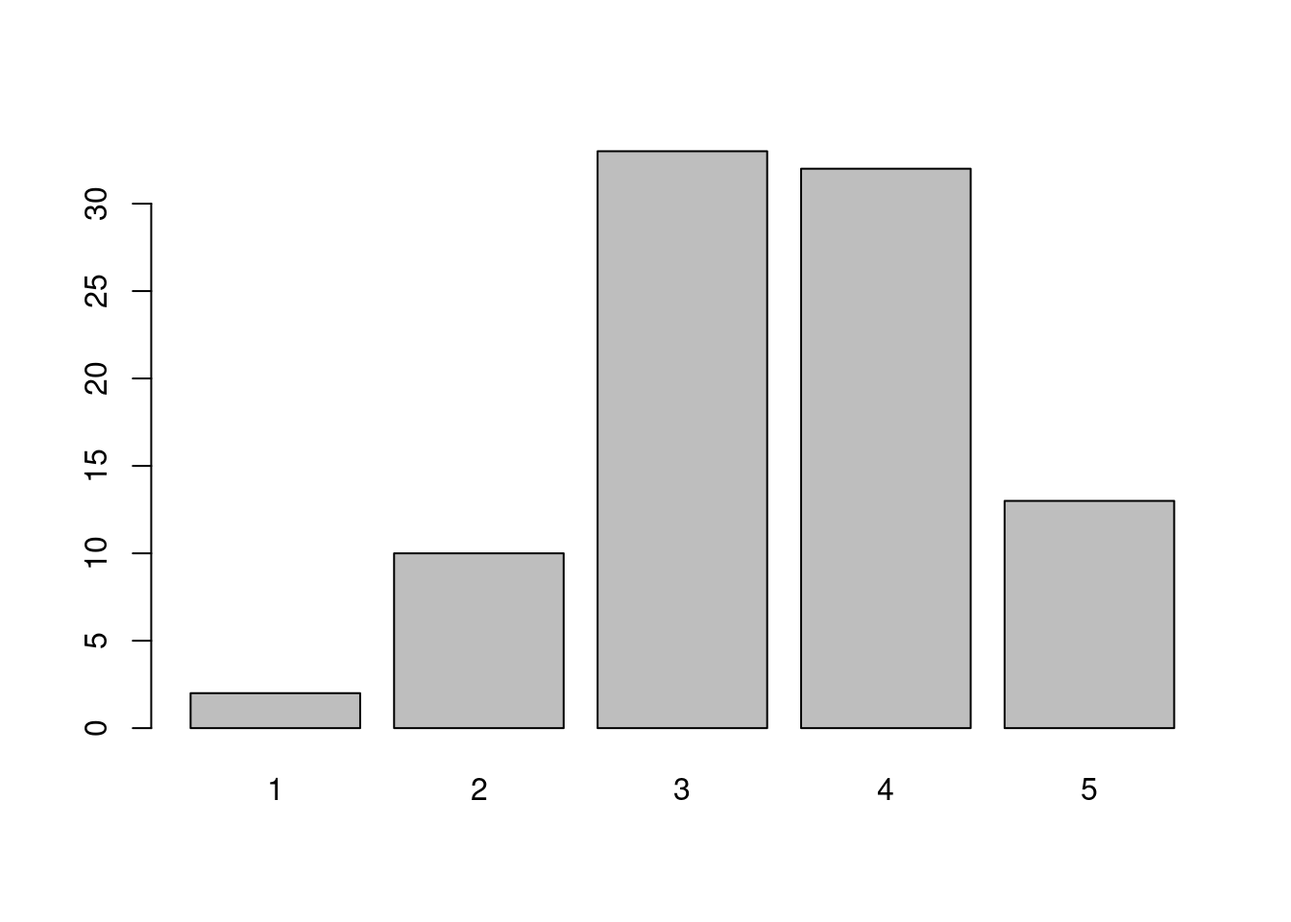
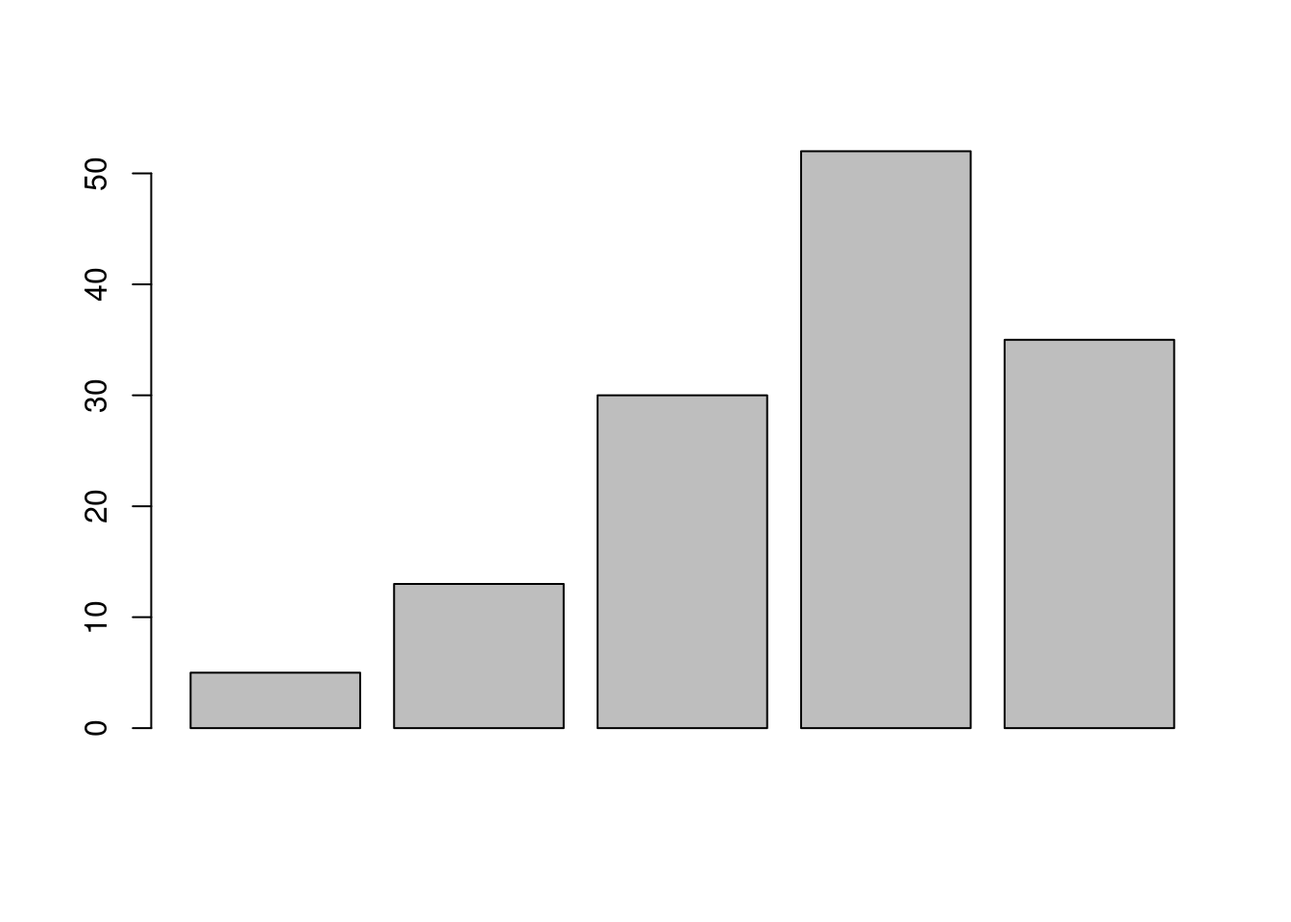
add codigo 201 tablas colombia

diff --git a/codigo103.html b/codigo103.html
@@ -667,10 +667,11 @@ pie(t1,
 <h1><strong>Variable cualitativa-ordinal</strong></h1>
 <div id="gráfico-de-barras" class="section level2">
 <h2><strong>2.Gráfico de barras</strong></h2>
-<pre class="r"><code>ev=table(rbinom(90,5,0.70))
+<pre class="r"><code>ev=c(5,13,30,52,35)
 barplot(ev)</code></pre>
 <p><img src="codigo103_files/figure-html/unnamed-chunk-3-1.png" width="672" /></p>
-<pre class="r"><code>ev=table(rbinom(90,5,0.70))
+<pre class="r"><code>ev=c(5,13,30,52,35)
+ev=as.table(ev)
 names(ev)=c(&quot;MR&quot;,&quot;R&quot;,&quot;B&quot;,&quot;MB&quot;,&quot;E&quot;)
 barplot(ev, col=c(&quot;red&quot;,&quot;yellow&quot;,&quot;orange&quot;,&quot;green&quot;,&quot;blue&quot;), 
         main = &quot;Evaluación proceso de inducción&quot;,
@@ -692,7 +693,7 @@ barplot(counts, main=&quot;Número de cambios adelante por Tipo de motor&quot;,
 <p><img src="codigo103_files/figure-html/unnamed-chunk-6-1.png" width="672" /></p>
 </div>
 <div id="diagrama-de-mosaico" class="section level2">
-<h2>** 4. Diagrama de mosaico **</h2>
+<h2><strong>4. Diagrama de mosaico </strong></h2>
 <pre class="r"><code>mosaicplot(~gear + vs, 
            data = mtcars, 
            color =  c(&quot;dodgerblue3&quot;,&quot;orange&quot;), 
@@ -941,8 +942,8 @@ fig</code></pre>
 <pre class="r"><code>library(highcharter)</code></pre>
 <pre class="r"><code>hchart(casas, &quot;scatter&quot;, hcaes(x = precio, y = areaconst, group = mes)) %&gt;%
   hc_title(text = &quot;Precio por área construida&quot;) </code></pre>
-<div id="htmlwidget-dbffcea08ab3f3df8702" style="width:100%;height:500px;" class="highchart html-widget"></div>
-<script type="application/json" data-for="htmlwidget-dbffcea08ab3f3df8702">{"x":{"hc_opts":{"chart":{"reflow":true},"title":{"text":"Precio por área construida"},"yAxis":{"title":{"text":"areaconst"},"type":"linear"},"credits":{"enabled":false},"exporting":{"enabled":false},"boost":{"enabled":false},"plotOptions":{"series":{"label":{"enabled":false},"turboThreshold":0,"showInLegend":true},"treemap":{"layoutAlgorithm":"squarified"},"scatter":{"marker":{"symbol":"circle"}}},"series":[{"name":"1","data":[{"mes":"1","precio":74900,"areaconst":1514,"numcuartos":4,"antigüedad":16,"sur":0,"norte":0,"x":74900,"y":1514},{"mes":"1","precio":76400,"areaconst":1679,"numcuartos":3,"antigüedad":15,"sur":0,"norte":0,"x":76400,"y":1679},{"mes":"1","precio":79900,"areaconst":1283,"numcuartos":2,"antigüedad":11,"sur":0,"norte":1,"x":79900,"y":1283},{"mes":"1","precio":80900,"areaconst":2072,"numcuartos":3,"antigüedad":8,"sur":0,"norte":0,"x":80900,"y":2072},{"mes":"1","precio":81500,"areaconst":1510,"numcuartos":2,"antigüedad":5,"sur":0,"norte":0,"x":81500,"y":1510},{"mes":"1","precio":81700,"areaconst":1692,"numcuartos":3,"antigüedad":5,"sur":0,"norte":0,"x":81700,"y":1692},{"mes":"1","precio":81800,"areaconst":1837,"numcuartos":3,"antigüedad":9,"sur":0,"norte":0,"x":81800,"y":1837},{"mes":"1","precio":83100,"areaconst":1697,"numcuartos":3,"antigüedad":4,"sur":0,"norte":0,"x":83100,"y":1697},{"mes":"1","precio":85600,"areaconst":2025,"numcuartos":3,"antigüedad":11,"sur":0,"norte":0,"x":85600,"y":2025},{"mes":"1","precio":88300,"areaconst":1959,"numcuartos":3,"antigüedad":6,"sur":1,"norte":0,"x":88300,"y":1959},{"mes":"1","precio":90900,"areaconst":2111,"numcuartos":3,"antigüedad":9,"sur":0,"norte":0,"x":90900,"y":2111},{"mes":"1","precio":91600,"areaconst":1905,"numcuartos":3,"antigüedad":6,"sur":0,"norte":0,"x":91600,"y":1905},{"mes":"1","precio":94100,"areaconst":1690,"numcuartos":3,"antigüedad":7,"sur":0,"norte":1,"x":94100,"y":1690},{"mes":"1","precio":97500,"areaconst":1749,"numcuartos":3,"antigüedad":8,"sur":0,"norte":1,"x":97500,"y":1749},{"mes":"1","precio":104800,"areaconst":1836,"numcuartos":3,"antigüedad":7,"sur":0,"norte":1,"x":104800,"y":1836},{"mes":"1","precio":107000,"areaconst":2215,"numcuartos":3,"antigüedad":7,"sur":0,"norte":0,"x":107000,"y":2215},{"mes":"1","precio":111000,"areaconst":1952,"numcuartos":4,"antigüedad":8,"sur":0,"norte":1,"x":111000,"y":1952},{"mes":"1","precio":112900,"areaconst":2210,"numcuartos":3,"antigüedad":9,"sur":0,"norte":1,"x":112900,"y":2210},{"mes":"1","precio":113000,"areaconst":2008,"numcuartos":3,"antigüedad":5,"sur":0,"norte":1,"x":113000,"y":2008},{"mes":"1","precio":117200,"areaconst":2063,"numcuartos":3,"antigüedad":5,"sur":0,"norte":1,"x":117200,"y":2063},{"mes":"1","precio":117700,"areaconst":2091,"numcuartos":3,"antigüedad":6,"sur":1,"norte":1,"x":117700,"y":2091},{"mes":"1","precio":118000,"areaconst":2019,"numcuartos":4,"antigüedad":8,"sur":0,"norte":1,"x":118000,"y":2019}],"type":"scatter"},{"name":"2","data":[{"mes":"2","precio":58900,"areaconst":1111,"numcuartos":6,"antigüedad":22,"sur":0,"norte":0,"x":58900,"y":1111},{"mes":"2","precio":68900,"areaconst":1689,"numcuartos":4,"antigüedad":15,"sur":0,"norte":0,"x":68900,"y":1689},{"mes":"2","precio":71600,"areaconst":1683,"numcuartos":3,"antigüedad":6,"sur":0,"norte":0,"x":71600,"y":1683},{"mes":"2","precio":74600,"areaconst":1941,"numcuartos":3,"antigüedad":7,"sur":1,"norte":0,"x":74600,"y":1941},{"mes":"2","precio":76200,"areaconst":1810,"numcuartos":3,"antigüedad":5,"sur":1,"norte":0,"x":76200,"y":1810},{"mes":"2","precio":76800,"areaconst":1713,"numcuartos":3,"antigüedad":1,"sur":0,"norte":0,"x":76800,"y":1713},{"mes":"2","precio":78400,"areaconst":1799,"numcuartos":3,"antigüedad":4,"sur":0,"norte":0,"x":78400,"y":1799},{"mes":"2","precio":79900,"areaconst":1501,"numcuartos":3,"antigüedad":6,"sur":0,"norte":0,"x":79900,"y":1501},{"mes":"2","precio":81400,"areaconst":1975,"numcuartos":3,"antigüedad":18,"sur":1,"norte":0,"x":81400,"y":1975},{"mes":"2","precio":82800,"areaconst":1783,"numcuartos":4,"antigüedad":6,"sur":0,"norte":0,"x":82800,"y":1783},{"mes":"2","precio":84600,"areaconst":1793,"numcuartos":3,"antigüedad":7,"sur":0,"norte":1,"x":84600,"y":1793},{"mes":"2","precio":85200,"areaconst":1598,"numcuartos":3,"antigüedad":4,"sur":0,"norte":1,"x":85200,"y":1598},{"mes":"2","precio":86300,"areaconst":2050,"numcuartos":3,"antigüedad":2,"sur":0,"norte":0,"x":86300,"y":2050},{"mes":"2","precio":93300,"areaconst":1460,"numcuartos":2,"antigüedad":5,"sur":0,"norte":1,"x":93300,"y":1460},{"mes":"2","precio":95900,"areaconst":2384,"numcuartos":4,"antigüedad":6,"sur":0,"norte":0,"x":95900,"y":2384},{"mes":"2","precio":97500,"areaconst":2219,"numcuartos":4,"antigüedad":9,"sur":0,"norte":0,"x":97500,"y":2219},{"mes":"2","precio":99100,"areaconst":1814,"numcuartos":3,"antigüedad":6,"sur":0,"norte":1,"x":99100,"y":1814},{"mes":"2","precio":101700,"areaconst":2336,"numcuartos":3,"antigüedad":8,"sur":0,"norte":0,"x":101700,"y":2336},{"mes":"2","precio":105000,"areaconst":2398,"numcuartos":4,"antigüedad":4,"sur":0,"norte":0,"x":105000,"y":2398},{"mes":"2","precio":114100,"areaconst":2136,"numcuartos":4,"antigüedad":4,"sur":1,"norte":1,"x":114100,"y":2136},{"mes":"2","precio":117300,"areaconst":2173,"numcuartos":3,"antigüedad":4,"sur":0,"norte":1,"x":117300,"y":2173},{"mes":"2","precio":131200,"areaconst":2523,"numcuartos":4,"antigüedad":5,"sur":0,"norte":1,"x":131200,"y":2523}],"type":"scatter"},{"name":"3","data":[{"mes":"3","precio":70900,"areaconst":1529,"numcuartos":5,"antigüedad":20,"sur":0,"norte":0,"x":70900,"y":1529},{"mes":"3","precio":72300,"areaconst":1589,"numcuartos":6,"antigüedad":16,"sur":0,"norte":0,"x":72300,"y":1589},{"mes":"3","precio":76800,"areaconst":1710,"numcuartos":4,"antigüedad":14,"sur":0,"norte":0,"x":76800,"y":1710},{"mes":"3","precio":79900,"areaconst":1398,"numcuartos":2,"antigüedad":12,"sur":0,"norte":1,"x":79900,"y":1398},{"mes":"3","precio":81800,"areaconst":2017,"numcuartos":7,"antigüedad":7,"sur":0,"norte":0,"x":81800,"y":2017},{"mes":"3","precio":83700,"areaconst":2123,"numcuartos":4,"antigüedad":4,"sur":0,"norte":0,"x":83700,"y":2123},{"mes":"3","precio":85200,"areaconst":1967,"numcuartos":3,"antigüedad":4,"sur":0,"norte":0,"x":85200,"y":1967},{"mes":"3","precio":86300,"areaconst":2100,"numcuartos":5,"antigüedad":5,"sur":1,"norte":0,"x":86300,"y":2100},{"mes":"3","precio":87100,"areaconst":2186,"numcuartos":6,"antigüedad":6,"sur":0,"norte":0,"x":87100,"y":2186},{"mes":"3","precio":87900,"areaconst":1588,"numcuartos":6,"antigüedad":6,"sur":0,"norte":1,"x":87900,"y":1588},{"mes":"3","precio":88500,"areaconst":2190,"numcuartos":4,"antigüedad":4,"sur":1,"norte":0,"x":88500,"y":2190},{"mes":"3","precio":90300,"areaconst":2021,"numcuartos":10,"antigüedad":10,"sur":0,"norte":0,"x":90300,"y":2021},{"mes":"3","precio":91700,"areaconst":2385,"numcuartos":1,"antigüedad":1,"sur":0,"norte":0,"x":91700,"y":2385},{"mes":"3","precio":92100,"areaconst":1644,"numcuartos":4,"antigüedad":4,"sur":0,"norte":1,"x":92100,"y":1644},{"mes":"3","precio":103300,"areaconst":2689,"numcuartos":5,"antigüedad":5,"sur":0,"norte":0,"x":103300,"y":2689},{"mes":"3","precio":111100,"areaconst":2068,"numcuartos":6,"antigüedad":6,"sur":0,"norte":1,"x":111100,"y":2068},{"mes":"3","precio":121000,"areaconst":2254,"numcuartos":4,"antigüedad":4,"sur":0,"norte":1,"x":121000,"y":2254},{"mes":"3","precio":129600,"areaconst":2289,"numcuartos":6,"antigüedad":6,"sur":0,"norte":1,"x":129600,"y":2289},{"mes":"3","precio":131900,"areaconst":2728,"numcuartos":8,"antigüedad":8,"sur":0,"norte":1,"x":131900,"y":2728}],"type":"scatter"}],"xAxis":{"type":"linear","title":{"text":"precio"},"categories":null}},"theme":{"chart":{"backgroundColor":"transparent"},"colors":["#7cb5ec","#434348","#90ed7d","#f7a35c","#8085e9","#f15c80","#e4d354","#2b908f","#f45b5b","#91e8e1"]},"conf_opts":{"global":{"Date":null,"VMLRadialGradientURL":"http =//code.highcharts.com/list(version)/gfx/vml-radial-gradient.png","canvasToolsURL":"http =//code.highcharts.com/list(version)/modules/canvas-tools.js","getTimezoneOffset":null,"timezoneOffset":0,"useUTC":true},"lang":{"contextButtonTitle":"Chart context menu","decimalPoint":".","downloadJPEG":"Download JPEG image","downloadPDF":"Download PDF document","downloadPNG":"Download PNG image","downloadSVG":"Download SVG vector image","drillUpText":"Back to {series.name}","invalidDate":null,"loading":"Loading...","months":["January","February","March","April","May","June","July","August","September","October","November","December"],"noData":"No data to display","numericSymbols":["k","M","G","T","P","E"],"printChart":"Print chart","resetZoom":"Reset zoom","resetZoomTitle":"Reset zoom level 1:1","shortMonths":["Jan","Feb","Mar","Apr","May","Jun","Jul","Aug","Sep","Oct","Nov","Dec"],"thousandsSep":" ","weekdays":["Sunday","Monday","Tuesday","Wednesday","Thursday","Friday","Saturday"]}},"type":"chart","fonts":[],"debug":false},"evals":[],"jsHooks":[]}</script>
+<div id="htmlwidget-9eef53ed8aa8c33a970f" style="width:100%;height:500px;" class="highchart html-widget"></div>
+<script type="application/json" data-for="htmlwidget-9eef53ed8aa8c33a970f">{"x":{"hc_opts":{"chart":{"reflow":true},"title":{"text":"Precio por área construida"},"yAxis":{"title":{"text":"areaconst"},"type":"linear"},"credits":{"enabled":false},"exporting":{"enabled":false},"boost":{"enabled":false},"plotOptions":{"series":{"label":{"enabled":false},"turboThreshold":0,"showInLegend":true},"treemap":{"layoutAlgorithm":"squarified"},"scatter":{"marker":{"symbol":"circle"}}},"series":[{"name":"1","data":[{"mes":"1","precio":74900,"areaconst":1514,"numcuartos":4,"antigüedad":16,"sur":0,"norte":0,"x":74900,"y":1514},{"mes":"1","precio":76400,"areaconst":1679,"numcuartos":3,"antigüedad":15,"sur":0,"norte":0,"x":76400,"y":1679},{"mes":"1","precio":79900,"areaconst":1283,"numcuartos":2,"antigüedad":11,"sur":0,"norte":1,"x":79900,"y":1283},{"mes":"1","precio":80900,"areaconst":2072,"numcuartos":3,"antigüedad":8,"sur":0,"norte":0,"x":80900,"y":2072},{"mes":"1","precio":81500,"areaconst":1510,"numcuartos":2,"antigüedad":5,"sur":0,"norte":0,"x":81500,"y":1510},{"mes":"1","precio":81700,"areaconst":1692,"numcuartos":3,"antigüedad":5,"sur":0,"norte":0,"x":81700,"y":1692},{"mes":"1","precio":81800,"areaconst":1837,"numcuartos":3,"antigüedad":9,"sur":0,"norte":0,"x":81800,"y":1837},{"mes":"1","precio":83100,"areaconst":1697,"numcuartos":3,"antigüedad":4,"sur":0,"norte":0,"x":83100,"y":1697},{"mes":"1","precio":85600,"areaconst":2025,"numcuartos":3,"antigüedad":11,"sur":0,"norte":0,"x":85600,"y":2025},{"mes":"1","precio":88300,"areaconst":1959,"numcuartos":3,"antigüedad":6,"sur":1,"norte":0,"x":88300,"y":1959},{"mes":"1","precio":90900,"areaconst":2111,"numcuartos":3,"antigüedad":9,"sur":0,"norte":0,"x":90900,"y":2111},{"mes":"1","precio":91600,"areaconst":1905,"numcuartos":3,"antigüedad":6,"sur":0,"norte":0,"x":91600,"y":1905},{"mes":"1","precio":94100,"areaconst":1690,"numcuartos":3,"antigüedad":7,"sur":0,"norte":1,"x":94100,"y":1690},{"mes":"1","precio":97500,"areaconst":1749,"numcuartos":3,"antigüedad":8,"sur":0,"norte":1,"x":97500,"y":1749},{"mes":"1","precio":104800,"areaconst":1836,"numcuartos":3,"antigüedad":7,"sur":0,"norte":1,"x":104800,"y":1836},{"mes":"1","precio":107000,"areaconst":2215,"numcuartos":3,"antigüedad":7,"sur":0,"norte":0,"x":107000,"y":2215},{"mes":"1","precio":111000,"areaconst":1952,"numcuartos":4,"antigüedad":8,"sur":0,"norte":1,"x":111000,"y":1952},{"mes":"1","precio":112900,"areaconst":2210,"numcuartos":3,"antigüedad":9,"sur":0,"norte":1,"x":112900,"y":2210},{"mes":"1","precio":113000,"areaconst":2008,"numcuartos":3,"antigüedad":5,"sur":0,"norte":1,"x":113000,"y":2008},{"mes":"1","precio":117200,"areaconst":2063,"numcuartos":3,"antigüedad":5,"sur":0,"norte":1,"x":117200,"y":2063},{"mes":"1","precio":117700,"areaconst":2091,"numcuartos":3,"antigüedad":6,"sur":1,"norte":1,"x":117700,"y":2091},{"mes":"1","precio":118000,"areaconst":2019,"numcuartos":4,"antigüedad":8,"sur":0,"norte":1,"x":118000,"y":2019}],"type":"scatter"},{"name":"2","data":[{"mes":"2","precio":58900,"areaconst":1111,"numcuartos":6,"antigüedad":22,"sur":0,"norte":0,"x":58900,"y":1111},{"mes":"2","precio":68900,"areaconst":1689,"numcuartos":4,"antigüedad":15,"sur":0,"norte":0,"x":68900,"y":1689},{"mes":"2","precio":71600,"areaconst":1683,"numcuartos":3,"antigüedad":6,"sur":0,"norte":0,"x":71600,"y":1683},{"mes":"2","precio":74600,"areaconst":1941,"numcuartos":3,"antigüedad":7,"sur":1,"norte":0,"x":74600,"y":1941},{"mes":"2","precio":76200,"areaconst":1810,"numcuartos":3,"antigüedad":5,"sur":1,"norte":0,"x":76200,"y":1810},{"mes":"2","precio":76800,"areaconst":1713,"numcuartos":3,"antigüedad":1,"sur":0,"norte":0,"x":76800,"y":1713},{"mes":"2","precio":78400,"areaconst":1799,"numcuartos":3,"antigüedad":4,"sur":0,"norte":0,"x":78400,"y":1799},{"mes":"2","precio":79900,"areaconst":1501,"numcuartos":3,"antigüedad":6,"sur":0,"norte":0,"x":79900,"y":1501},{"mes":"2","precio":81400,"areaconst":1975,"numcuartos":3,"antigüedad":18,"sur":1,"norte":0,"x":81400,"y":1975},{"mes":"2","precio":82800,"areaconst":1783,"numcuartos":4,"antigüedad":6,"sur":0,"norte":0,"x":82800,"y":1783},{"mes":"2","precio":84600,"areaconst":1793,"numcuartos":3,"antigüedad":7,"sur":0,"norte":1,"x":84600,"y":1793},{"mes":"2","precio":85200,"areaconst":1598,"numcuartos":3,"antigüedad":4,"sur":0,"norte":1,"x":85200,"y":1598},{"mes":"2","precio":86300,"areaconst":2050,"numcuartos":3,"antigüedad":2,"sur":0,"norte":0,"x":86300,"y":2050},{"mes":"2","precio":93300,"areaconst":1460,"numcuartos":2,"antigüedad":5,"sur":0,"norte":1,"x":93300,"y":1460},{"mes":"2","precio":95900,"areaconst":2384,"numcuartos":4,"antigüedad":6,"sur":0,"norte":0,"x":95900,"y":2384},{"mes":"2","precio":97500,"areaconst":2219,"numcuartos":4,"antigüedad":9,"sur":0,"norte":0,"x":97500,"y":2219},{"mes":"2","precio":99100,"areaconst":1814,"numcuartos":3,"antigüedad":6,"sur":0,"norte":1,"x":99100,"y":1814},{"mes":"2","precio":101700,"areaconst":2336,"numcuartos":3,"antigüedad":8,"sur":0,"norte":0,"x":101700,"y":2336},{"mes":"2","precio":105000,"areaconst":2398,"numcuartos":4,"antigüedad":4,"sur":0,"norte":0,"x":105000,"y":2398},{"mes":"2","precio":114100,"areaconst":2136,"numcuartos":4,"antigüedad":4,"sur":1,"norte":1,"x":114100,"y":2136},{"mes":"2","precio":117300,"areaconst":2173,"numcuartos":3,"antigüedad":4,"sur":0,"norte":1,"x":117300,"y":2173},{"mes":"2","precio":131200,"areaconst":2523,"numcuartos":4,"antigüedad":5,"sur":0,"norte":1,"x":131200,"y":2523}],"type":"scatter"},{"name":"3","data":[{"mes":"3","precio":70900,"areaconst":1529,"numcuartos":5,"antigüedad":20,"sur":0,"norte":0,"x":70900,"y":1529},{"mes":"3","precio":72300,"areaconst":1589,"numcuartos":6,"antigüedad":16,"sur":0,"norte":0,"x":72300,"y":1589},{"mes":"3","precio":76800,"areaconst":1710,"numcuartos":4,"antigüedad":14,"sur":0,"norte":0,"x":76800,"y":1710},{"mes":"3","precio":79900,"areaconst":1398,"numcuartos":2,"antigüedad":12,"sur":0,"norte":1,"x":79900,"y":1398},{"mes":"3","precio":81800,"areaconst":2017,"numcuartos":7,"antigüedad":7,"sur":0,"norte":0,"x":81800,"y":2017},{"mes":"3","precio":83700,"areaconst":2123,"numcuartos":4,"antigüedad":4,"sur":0,"norte":0,"x":83700,"y":2123},{"mes":"3","precio":85200,"areaconst":1967,"numcuartos":3,"antigüedad":4,"sur":0,"norte":0,"x":85200,"y":1967},{"mes":"3","precio":86300,"areaconst":2100,"numcuartos":5,"antigüedad":5,"sur":1,"norte":0,"x":86300,"y":2100},{"mes":"3","precio":87100,"areaconst":2186,"numcuartos":6,"antigüedad":6,"sur":0,"norte":0,"x":87100,"y":2186},{"mes":"3","precio":87900,"areaconst":1588,"numcuartos":6,"antigüedad":6,"sur":0,"norte":1,"x":87900,"y":1588},{"mes":"3","precio":88500,"areaconst":2190,"numcuartos":4,"antigüedad":4,"sur":1,"norte":0,"x":88500,"y":2190},{"mes":"3","precio":90300,"areaconst":2021,"numcuartos":10,"antigüedad":10,"sur":0,"norte":0,"x":90300,"y":2021},{"mes":"3","precio":91700,"areaconst":2385,"numcuartos":1,"antigüedad":1,"sur":0,"norte":0,"x":91700,"y":2385},{"mes":"3","precio":92100,"areaconst":1644,"numcuartos":4,"antigüedad":4,"sur":0,"norte":1,"x":92100,"y":1644},{"mes":"3","precio":103300,"areaconst":2689,"numcuartos":5,"antigüedad":5,"sur":0,"norte":0,"x":103300,"y":2689},{"mes":"3","precio":111100,"areaconst":2068,"numcuartos":6,"antigüedad":6,"sur":0,"norte":1,"x":111100,"y":2068},{"mes":"3","precio":121000,"areaconst":2254,"numcuartos":4,"antigüedad":4,"sur":0,"norte":1,"x":121000,"y":2254},{"mes":"3","precio":129600,"areaconst":2289,"numcuartos":6,"antigüedad":6,"sur":0,"norte":1,"x":129600,"y":2289},{"mes":"3","precio":131900,"areaconst":2728,"numcuartos":8,"antigüedad":8,"sur":0,"norte":1,"x":131900,"y":2728}],"type":"scatter"}],"xAxis":{"type":"linear","title":{"text":"precio"},"categories":null}},"theme":{"chart":{"backgroundColor":"transparent"},"colors":["#7cb5ec","#434348","#90ed7d","#f7a35c","#8085e9","#f15c80","#e4d354","#2b908f","#f45b5b","#91e8e1"]},"conf_opts":{"global":{"Date":null,"VMLRadialGradientURL":"http =//code.highcharts.com/list(version)/gfx/vml-radial-gradient.png","canvasToolsURL":"http =//code.highcharts.com/list(version)/modules/canvas-tools.js","getTimezoneOffset":null,"timezoneOffset":0,"useUTC":true},"lang":{"contextButtonTitle":"Chart context menu","decimalPoint":".","downloadJPEG":"Download JPEG image","downloadPDF":"Download PDF document","downloadPNG":"Download PNG image","downloadSVG":"Download SVG vector image","drillUpText":"Back to {series.name}","invalidDate":null,"loading":"Loading...","months":["January","February","March","April","May","June","July","August","September","October","November","December"],"noData":"No data to display","numericSymbols":["k","M","G","T","P","E"],"printChart":"Print chart","resetZoom":"Reset zoom","resetZoomTitle":"Reset zoom level 1:1","shortMonths":["Jan","Feb","Mar","Apr","May","Jun","Jul","Aug","Sep","Oct","Nov","Dec"],"thousandsSep":" ","weekdays":["Sunday","Monday","Tuesday","Wednesday","Thursday","Friday","Saturday"]}},"type":"chart","fonts":[],"debug":false},"evals":[],"jsHooks":[]}</script>
 </div>
 <div id="plotly" class="section level2">
 <h2><strong>plotly</strong></h2>

diff --git a/codigo101.html b/codigo101.html
@@ -560,46 +560,30 @@ data(cars)  # data set cars</code></pre>
 ##  Mean   :15.4   Mean   : 42.98  
 ##  3rd Qu.:19.0   3rd Qu.: 56.00  
 ##  Max.   :25.0   Max.   :120.00</code></pre>
-<pre><code>##  fecha_reporte_web  id_de_caso        fecha_de_notificaci_n departamento       departamento_nom  
-##  Min.   :NA        Length:4747775     Min.   :NA            Length:4747775     Length:4747775    
-##  1st Qu.:NA        Class :character   1st Qu.:NA            Class :character   Class :character  
-##  Median :NA        Mode  :character   Median :NA            Mode  :character   Mode  :character  
-##  Mean   :NA                           Mean   :NA                                                 
-##  3rd Qu.:NA                           3rd Qu.:NA                                                 
-##  Max.   :NA                           Max.   :NA                                                 
-##  NA&#39;s   :4747775                      NA&#39;s   :4747775                                            
-##  ciudad_municipio   ciudad_municipio_nom      edad       unidad_medida          sexo          
-##  Length:4747775     Length:4747775       Min.   :  1.0   Length:4747775     Length:4747775    
-##  Class :character   Class :character     1st Qu.: 27.0   Class :character   Class :character  
-##  Mode  :character   Mode  :character     Median : 37.0   Mode  :character   Mode  :character  
-##                                          Mean   : 39.6                                        
-##                                          3rd Qu.: 52.0                                        
-##                                          Max.   :114.0                                        
-##                                                                                               
-##  fuente_tipo_contagio  ubicacion            estado          pais_viajo_1_cod   pais_viajo_1_nom  
-##  Length:4747775       Length:4747775     Length:4747775     Length:4747775     Length:4747775    
-##  Class :character     Class :character   Class :character   Class :character   Class :character  
-##  Mode  :character     Mode  :character   Mode  :character   Mode  :character   Mode  :character  
-##                                                                                                  
-##                                                                                                  
-##                                                                                                  
-##                                                                                                  
-##   recuperado        fecha_inicio_sintomas fecha_diagnostico fecha_recuperado  tipo_recuperacion 
-##  Length:4747775     Min.   :NA            Min.   :NA        Min.   :NA        Length:4747775    
-##  Class :character   1st Qu.:NA            1st Qu.:NA        1st Qu.:NA        Class :character  
-##  Mode  :character   Median :NA            Median :NA        Median :NA        Mode  :character  
-##                     Mean   :NA            Mean   :NA        Mean   :NA                          
-##                     3rd Qu.:NA            3rd Qu.:NA        3rd Qu.:NA                          
-##                     Max.   :NA            Max.   :NA        Max.   :NA                          
-##                     NA&#39;s   :4747775       NA&#39;s   :4747775   NA&#39;s   :4747775                     
-##    per_etn_          nom_grupo_         fecha_muerte    
-##  Length:4747775     Length:4747775     Min.   :NA       
-##  Class :character   Class :character   1st Qu.:NA       
-##  Mode  :character   Mode  :character   Median :NA       
-##                                        Mean   :NA       
-##                                        3rd Qu.:NA       
-##                                        Max.   :NA       
-##                                        NA&#39;s   :4747775</code></pre>
+<pre><code>##  fecha_reporte_web  id_de_caso        fecha_de_notificaci_n departamento       departamento_nom   ciudad_municipio   ciudad_municipio_nom      edad      
+##  Min.   :NA        Length:4747775     Min.   :NA            Length:4747775     Length:4747775     Length:4747775     Length:4747775       Min.   :  1.0  
+##  1st Qu.:NA        Class :character   1st Qu.:NA            Class :character   Class :character   Class :character   Class :character     1st Qu.: 27.0  
+##  Median :NA        Mode  :character   Median :NA            Mode  :character   Mode  :character   Mode  :character   Mode  :character     Median : 37.0  
+##  Mean   :NA                           Mean   :NA                                                                                          Mean   : 39.6  
+##  3rd Qu.:NA                           3rd Qu.:NA                                                                                          3rd Qu.: 52.0  
+##  Max.   :NA                           Max.   :NA                                                                                          Max.   :114.0  
+##  NA&#39;s   :4747775                      NA&#39;s   :4747775                                                                                                    
+##  unidad_medida          sexo           fuente_tipo_contagio  ubicacion            estado          pais_viajo_1_cod   pais_viajo_1_nom    recuperado       
+##  Length:4747775     Length:4747775     Length:4747775       Length:4747775     Length:4747775     Length:4747775     Length:4747775     Length:4747775    
+##  Class :character   Class :character   Class :character     Class :character   Class :character   Class :character   Class :character   Class :character  
+##  Mode  :character   Mode  :character   Mode  :character     Mode  :character   Mode  :character   Mode  :character   Mode  :character   Mode  :character  
+##                                                                                                                                                           
+##                                                                                                                                                           
+##                                                                                                                                                           
+##                                                                                                                                                           
+##  fecha_inicio_sintomas fecha_diagnostico fecha_recuperado  tipo_recuperacion    per_etn_          nom_grupo_         fecha_muerte    
+##  Min.   :NA            Min.   :NA        Min.   :NA        Length:4747775     Length:4747775     Length:4747775     Min.   :NA       
+##  1st Qu.:NA            1st Qu.:NA        1st Qu.:NA        Class :character   Class :character   Class :character   1st Qu.:NA       
+##  Median :NA            Median :NA        Median :NA        Mode  :character   Mode  :character   Mode  :character   Median :NA       
+##  Mean   :NA            Mean   :NA        Mean   :NA                                                                 Mean   :NA       
+##  3rd Qu.:NA            3rd Qu.:NA        3rd Qu.:NA                                                                 3rd Qu.:NA       
+##  Max.   :NA            Max.   :NA        Max.   :NA                                                                 Max.   :NA       
+##  NA&#39;s   :4747775       NA&#39;s   :4747775   NA&#39;s   :4747775                                                            NA&#39;s   :4747775</code></pre>
 <p>Por otro lado la función <em>View()</em> permite visualizar la base en una ventana de manera separada</p>
 <pre class="r"><code>View(Colombia)  </code></pre>
 <pre class="r"><code>View(iris</code></pre>

diff --git a/codigo102.html b/codigo102.html
@@ -594,13 +594,10 @@ summarytools::freq(Colombia$edadR)</code></pre>
 <pre class="r"><code>h$breaks   # puntos de corte</code></pre>
 <pre><code>##  [1]   0   5  10  15  20  25  30  35  40  45  50  55  60  65  70  75  80  85  90  95 100 105 110 115</code></pre>
 <pre class="r"><code>h$counts   # frecuencias absolutas en cada intervalo</code></pre>
-<pre><code>##  [1]  79922  99711 144402 261117 477845 575649 542170 506221 420984 359468 342077 300979 216693
-## [14] 149301 105604  72856  49847  28193  11478   2799    403     48      8</code></pre>
+<pre><code>##  [1]  79922  99711 144402 261117 477845 575649 542170 506221 420984 359468 342077 300979 216693 149301 105604  72856  49847  28193  11478   2799    403     48      8</code></pre>
 <pre class="r"><code>h$density  # densidad en cada intervalo</code></pre>
-<pre><code>##  [1] 3.366714e-03 4.200325e-03 6.082934e-03 1.099955e-02 2.012922e-02 2.424921e-02 2.283891e-02
-##  [8] 2.132456e-02 1.773395e-02 1.514259e-02 1.440999e-02 1.267874e-02 9.128192e-03 6.289304e-03
-## [15] 4.448568e-03 3.069059e-03 2.099805e-03 1.187630e-03 4.835107e-04 1.179079e-04 1.697637e-05
-## [22] 2.022000e-06 3.370000e-07</code></pre>
+<pre><code>##  [1] 3.366714e-03 4.200325e-03 6.082934e-03 1.099955e-02 2.012922e-02 2.424921e-02 2.283891e-02 2.132456e-02 1.773395e-02 1.514259e-02 1.440999e-02 1.267874e-02
+## [13] 9.128192e-03 6.289304e-03 4.448568e-03 3.069059e-03 2.099805e-03 1.187630e-03 4.835107e-04 1.179079e-04 1.697637e-05 2.022000e-06 3.370000e-07</code></pre>
 <p>Seria de interés tambien construir una tabla con las edades de las personas fallecidas por covid en Colombia, para lo cual debemos primero seleccionar la base de datos de las fallecidas y luego en ello construir la tabla</p>
 <p>En este caso vamos a seleccionar los rangos de edad y luego construimos la tabla</p>
 <pre class="r"><code>Fallecidos=subset(Colombia, estado==&quot;fallecido&quot;)
@@ -680,15 +677,15 @@ prop.table(tabla1)</code></pre>
 ## group: casa
 ##    vars       n  mean    sd median trimmed   mad min max range skew kurtosis   se
 ## X1    1 4587162 38.71 17.25     37   38.04 17.79   1 114   113 0.38    -0.15 0.01
-## --------------------------------------------------------------------------- 
+## --------------------------------------------------------------------------------------------------------------------------- 
 ## group: fallecido
 ##    vars      n mean    sd median trimmed   mad min max range  skew kurtosis   se
 ## X1    1 119482 67.6 15.19     69   68.44 14.83   1 110   109 -0.52     0.15 0.04
-## --------------------------------------------------------------------------- 
+## --------------------------------------------------------------------------------------------------------------------------- 
 ## group: hospital
 ##    vars     n  mean    sd median trimmed   mad min max range  skew kurtosis   se
 ## X1    1 21235 49.69 19.97     51   50.41 19.27   1 111   110 -0.32    -0.25 0.14
-## --------------------------------------------------------------------------- 
+## --------------------------------------------------------------------------------------------------------------------------- 
 ## group: hospital uci
 ##    vars    n  mean    sd median trimmed   mad min max range  skew kurtosis   se
 ## X1    1 3972 51.87 16.45     53   52.64 16.31   1  98    97 -0.51     0.47 0.26</code></pre>
